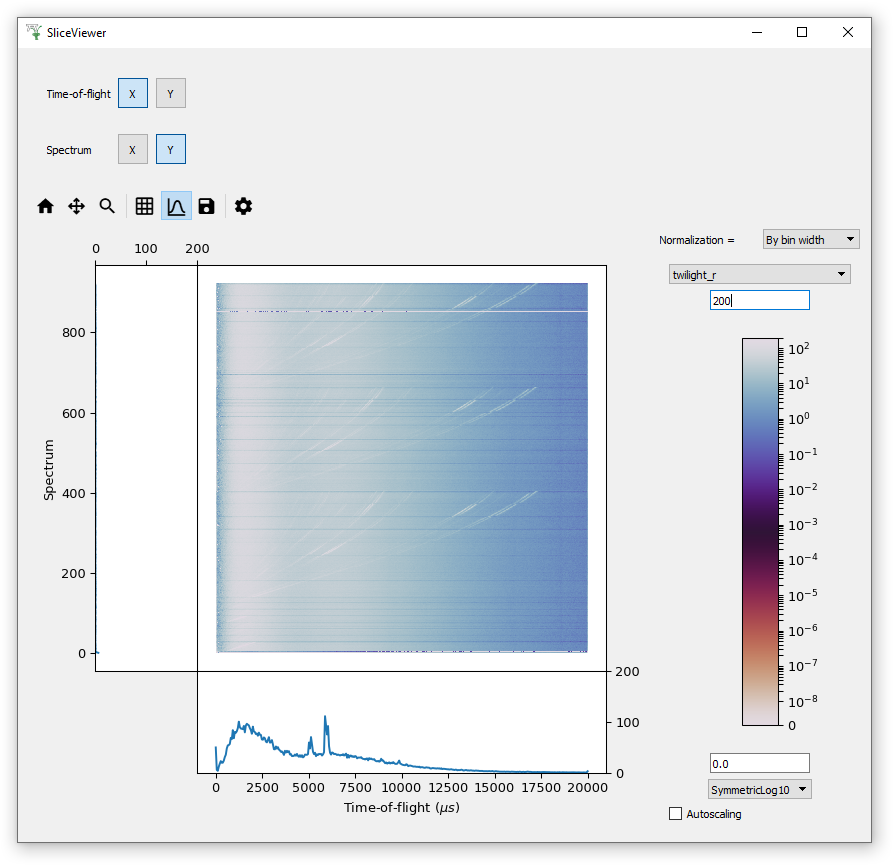
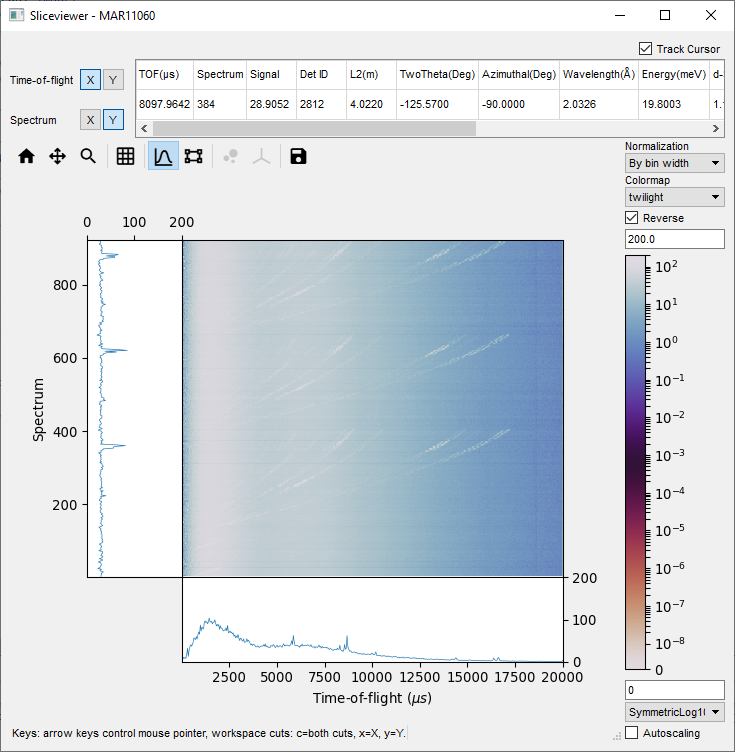
Update and Improve SliceViewer in MantidBasicCourse
Also clarify the scope expected in the Core Manual testing for SV

Changed region(s): [[0.0, 0.0, 1.0, 1.0]]

diff --git a/docs/source/tutorials/mantid_basic_course/loading_and_displaying_data/04_displaying_2D_data.rst b/docs/source/tutorials/mantid_basic_course/loading_and_displaying_data/04_displaying_2D_data.rst
@@ -30,16 +30,35 @@ Slice Viewer
 ===============
 
 This is a useful tool to investigate 2D image data. You
-can rapidly look through the spectrum and bin data for any point in the
-2D map. This is one of the features of Mantid we are currently developing and will gain more functionality in the future.
+can rapidly look through the spectrum and bin data, by hovering your mouse cursor over the
+2D map.
 
-#. Launch the Spectrum Viewer just right-click on the MAR11060
-   Workspace and select 'Show Slice Viewer'.
-#. Change the scale of the colorbar in the drop-down menu to SymmetricLog10.
-#. Toggle the Lineplots on with the graphical menu button.
-#. Change the Colorbar Maximum to 200
-#. Move your cursor around the plot to see the corresponding lineplots
+#. Right-click on the loaded MAR11060 workspace and select 'Show Slice Viewer'.
+#. Change the scale of the colorbar in the drop-down menu (in the bottom right) to SymmetricLog10.
+#. Change the Colorbar Maximum to 200.
+#. Toggle the Lineplots ON, by clicking the graph toolbar button |SV_lineplots_button.png|.
+#. Move your cursor around the plot to see the corresponding lineplots and cursor data.
+#. Click the next toolbar button |SV_ROI_button.png| and mark out a region of interest.
+   The lineplots now display the axis data summed over this region of the image.
 
 .. figure:: /images/600px-ImageViewer.png
    :alt: Slice Viewer
    :align: center
+
+Slice Viewer also includes advanced features for multi-dimensional Single Crystal Diffraction data.
+These advanced toolbar buttons |SV_SXD_buttons.png| are disabled for 2D data. As a hint to
+what is possible, create some fake 4D data by running these lines in the Script Editor in MantidWorkbench:
+
+.. code-block:: python
+
+  md_4D = CreateMDWorkspace(Dimensions=4, Extents=[-1,1,-1,1,-1,1,-10,10], Names="H,K,L,E", Units="U,U,U,V")
+  FakeMDEventData(InputWorkspace=md_4D, PeakParams='500000,0,0,0,0,3')
+
+#. In the top left, set ``E`` as the Y-axis and ``L`` as the X-axis.
+#. Use the sliders to view the data at different points in the H and K dimensions.
+#. You will notice that the peaks overlay toolbar button has been enabled. This requires an appropriate PeaksWorkspace
+   but we will not go into any further detail in this course.
+
+.. |SV_lineplots_button.png| image:: /images/SV_lineplots_button.png
+.. |SV_ROI_button.png| image:: /images/SV_ROI_button.png
+.. |SV_SXD_buttons.png| image:: /images/SV_SXD_buttons.png

diff --git a/dev-docs/source/Testing/Core/Core.rst b/dev-docs/source/Testing/Core/Core.rst
@@ -56,7 +56,7 @@ This was last updated for Release 5.1. Check if the organiser has considered if 
     Project Save/Load,:r:`Y`,:b:`Y`,:g:`Y`,:o:`Y`, "Test the small areas below and do not delete workspaces or plots you produce and manipulate, maybe open a few interfaces. Then File > Save Project and try to reload it! Diagnose any problems."
     About / First Time Setup Menu,:r:`Y`,,,,"Check Opens Successfully + all buttons and links work"
     Help Documentation,,:b:`Y`,:g:`Y`,,"Open all `Help` menu bar options. Load a few algorithm dialogs and click the **?**. Produce some plots (1D, Waterfall,Colorfill,3D Surface) and check **?** links."
-    SliceViewer,:r:`Y`,:b:`Y`,,:o:`Y`, "All that is expected here is to test basic functionality. For some inspiration, here are the full :ref:`SliceViewer Manual Testing instructions <sliceviewer_testing>`"
+    SliceViewer,:r:`Y`,:b:`Y`,,:o:`Y`, "Please **only** test basic SliceViewer functionality, such as outlined :ref:`here <04_displaying_2D_data>`, and please use SV with unusual data and in unusual ways! If you want extra inspiration, here are the advanced :ref:`SliceViewer Manual Testing instructions <sliceviewer_testing>`. Do NOT complete these advanced tests, however you may find the initial Data section useful."
     GUI Plotting,,:b:`Y`,:g:`Y`,,"Produce 1D (Individual, Waterfall, Tiled), 2D (Colorfill and Contour) and 3D (Surface and Wireframe) plots with different data types. :ref:`03_displaying_1D_data` :ref:`3D_Plots`"
     Manipulating Plots,:r:`Y`,,:g:`Y`,:o:`Y`,"See Plot Help Docs for info on Toolbar **?** buttons, Click Menus, Plots Toolbox, Settings"
     Scripting Plots,,:b:`Y`,,:o:`Y`,"For some ideas: :ref:`01_basic_plot_scripting` :ref:`06_formatting_plots` :ref:`plotting` + run any `MPL code <https://matplotlib.org/gallery/index.html>`_ and check if Figure Options and Generate a script work."
